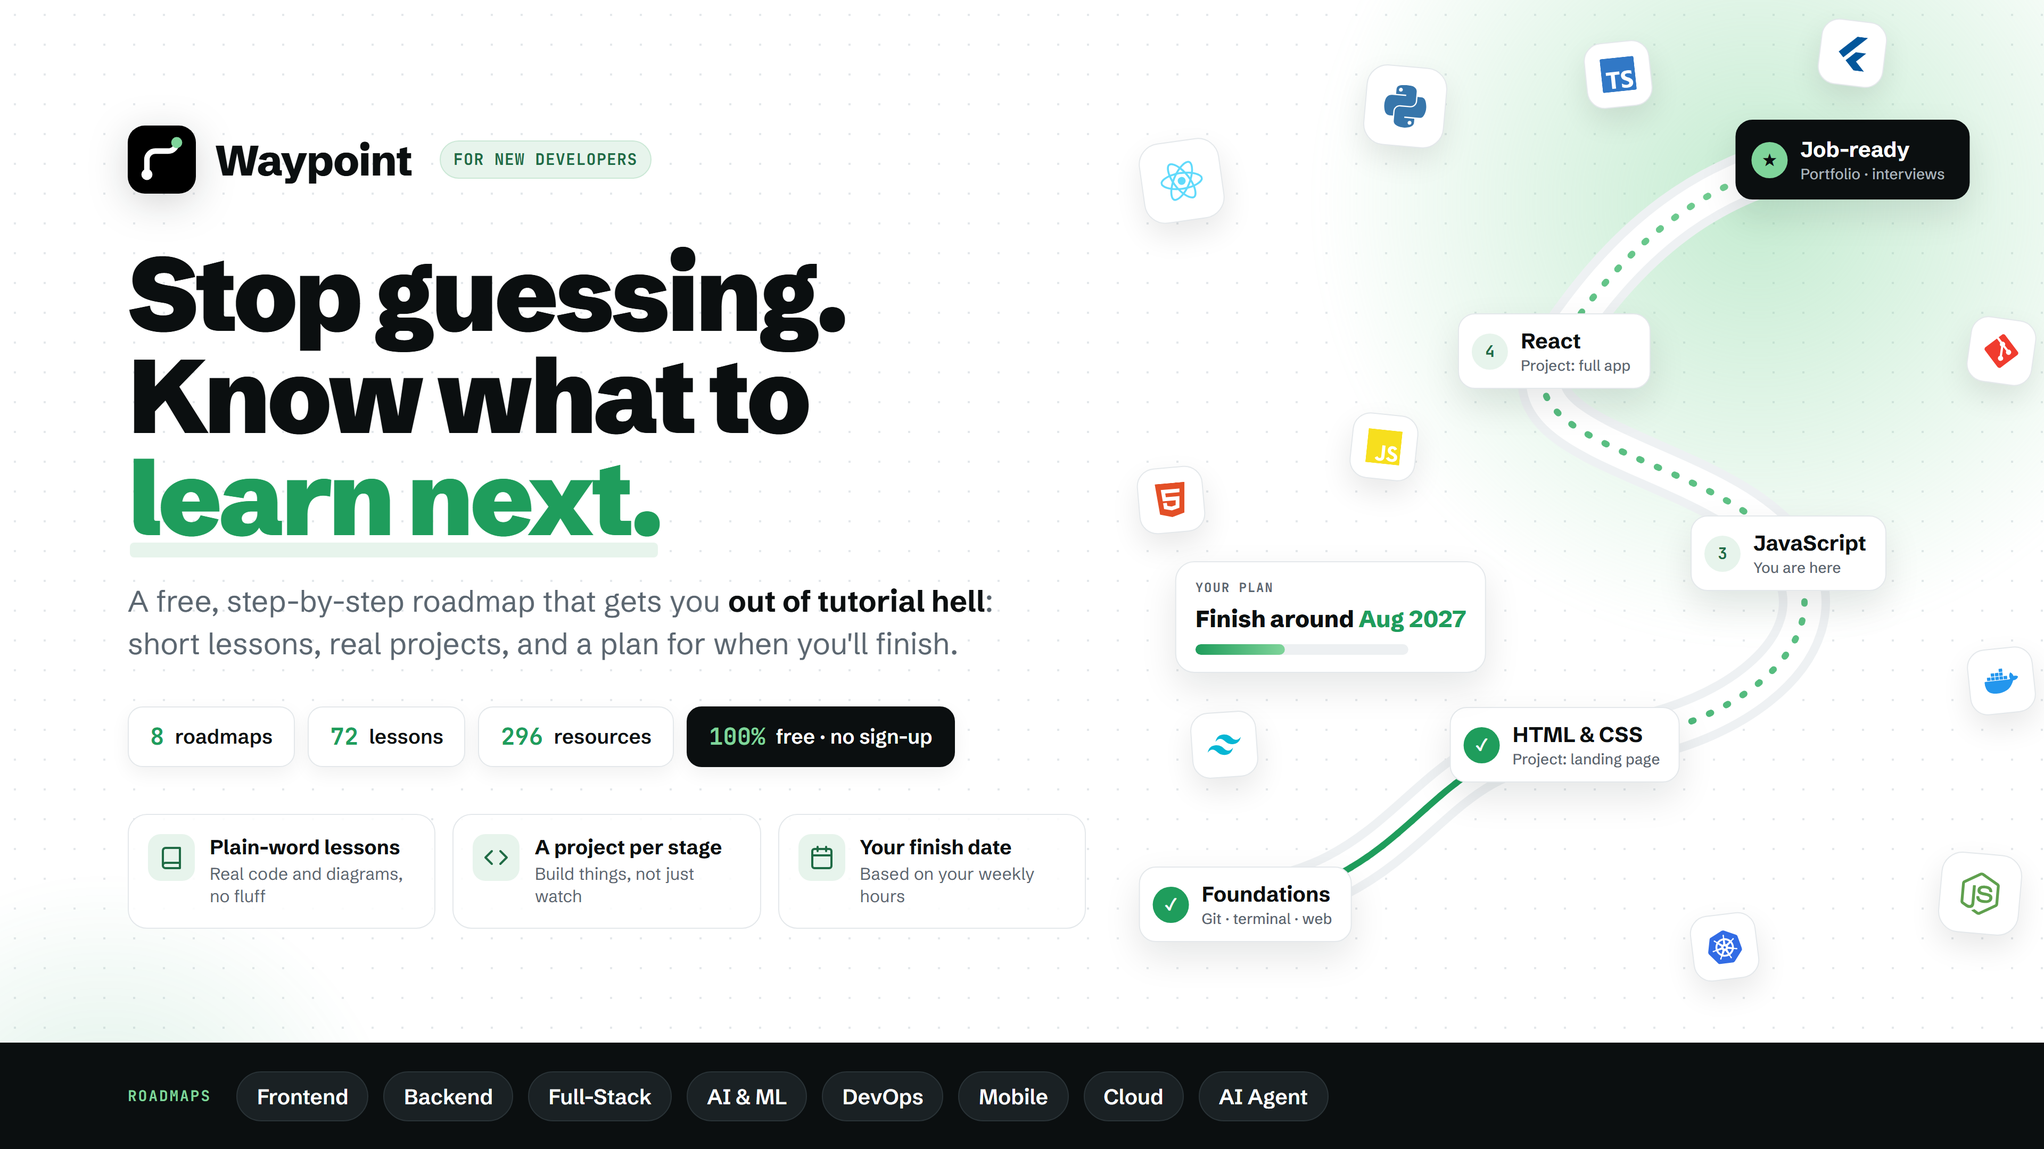
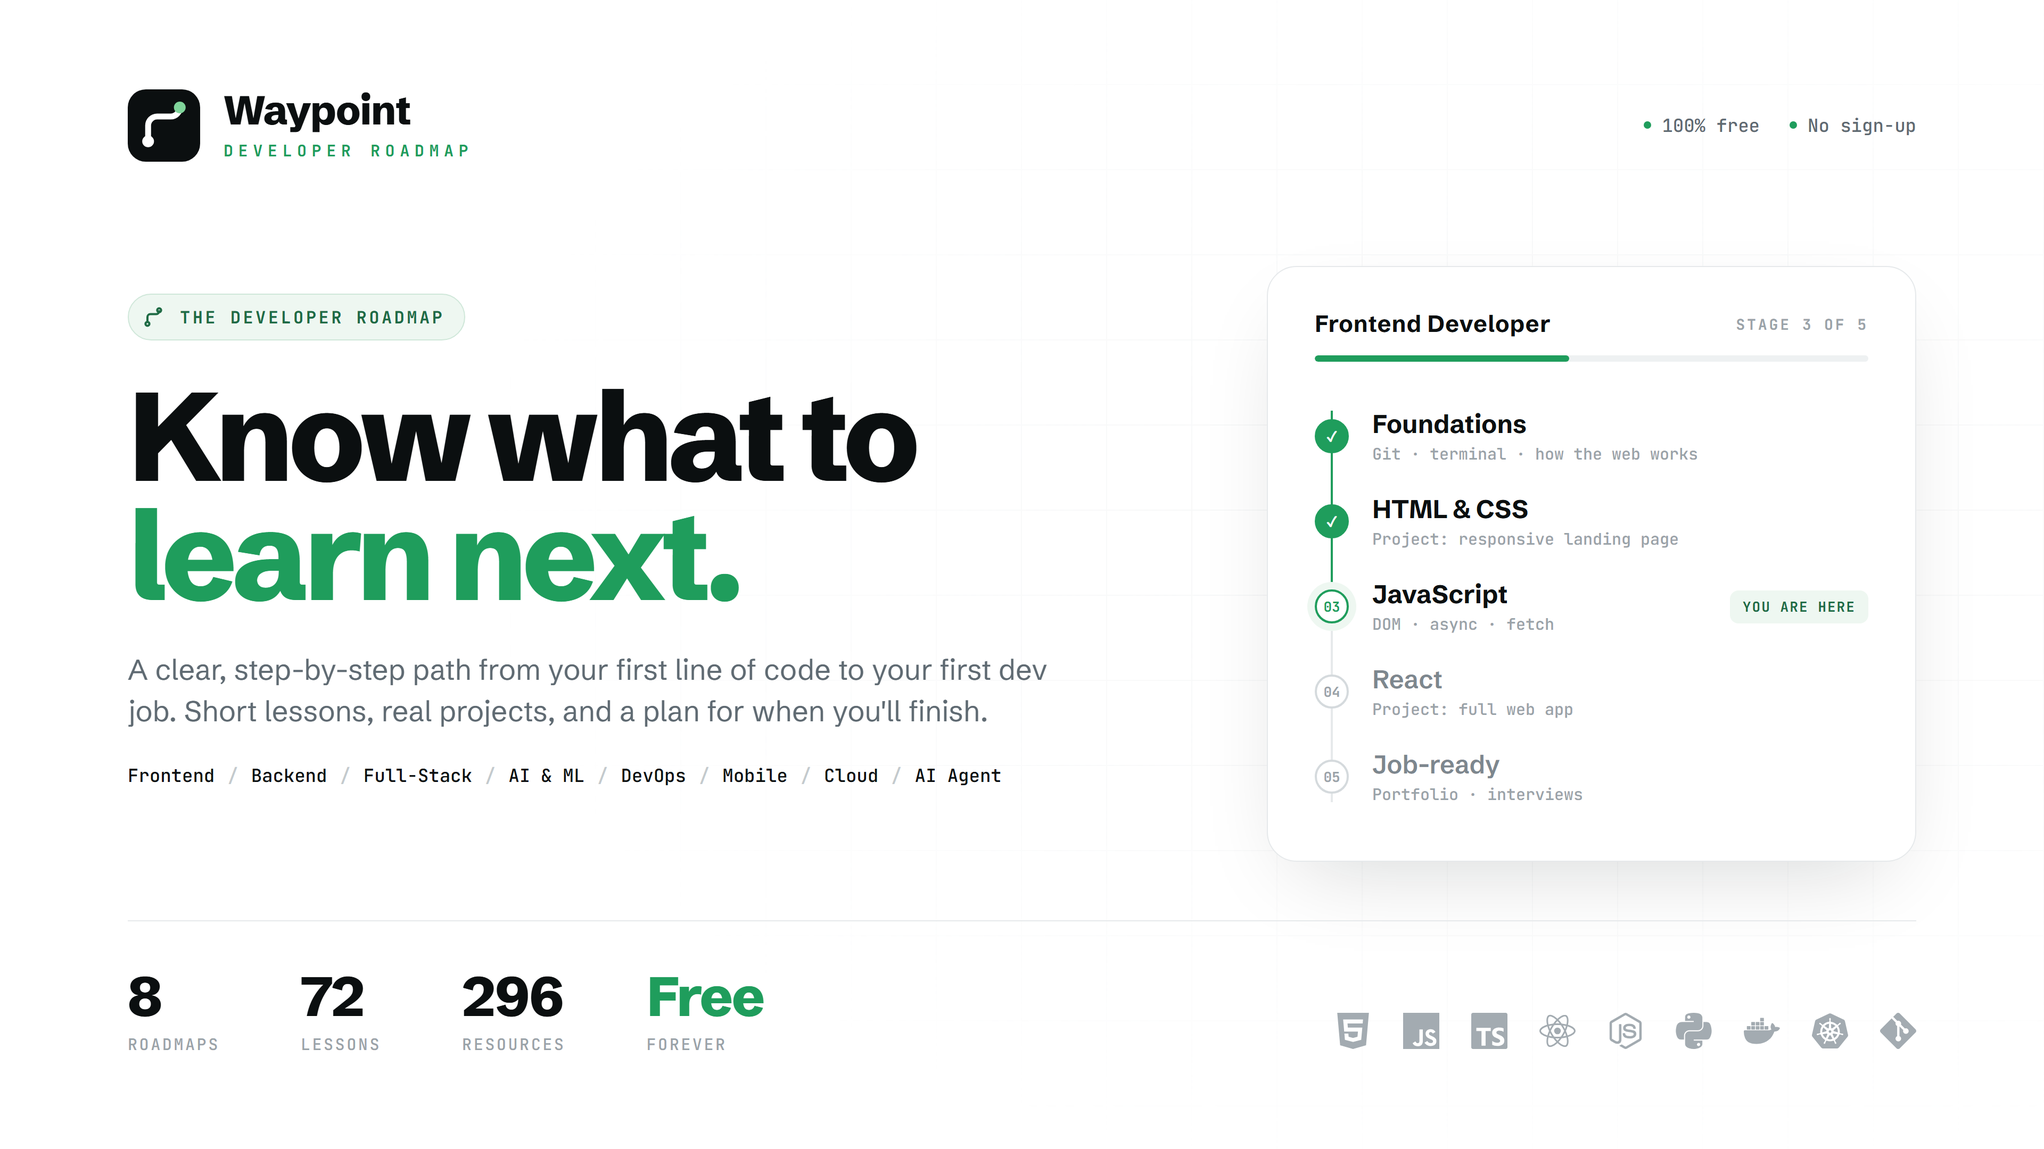
Redesign promo poster: minimal layout, Waypoint Developer Roadmap lockup

diff --git a/marketing/promo-poster.html b/marketing/promo-poster.html
@@ -6,140 +6,120 @@
 <link rel="preconnect" href="https://fonts.googleapis.com">
 <link href="https://fonts.googleapis.com/css2?family=Schibsted+Grotesk:wght@400;500;600;700;800;900&family=JetBrains+Mono:wght@500;700&display=swap" rel="stylesheet">
 <style>
-  :root { --ink:#0b0f10; --muted:#5b6670; --green:#1f9d5c; --deep:#1f6b45; --mint:#7fd49a; --bg-green:#e7f4ec; --line:#e4e8eb; }
+  :root { --ink:#0b0f10; --muted:#5f6a72; --soft:#9aa3a9; --line:#e6e9eb; --green:#1f9d5c; --deep:#1f6b45; --mint:#7fd49a; --tint:#eef7f1; }
   * { box-sizing:border-box; margin:0; padding:0; }
-  body { background:#f3f5f6; font-family:'Schibsted Grotesk', system-ui, sans-serif; color:var(--ink); padding:40px; }
+  body { background:#eceff1; font-family:'Schibsted Grotesk', system-ui, sans-serif; color:var(--ink); padding:40px; }
+  .mono { font-family:'JetBrains Mono', monospace; }
 
   .frame { position:relative; width:1920px; height:1080px; overflow:hidden; background:#fff; }
-  .frame::before { content:""; position:absolute; inset:0;
-    background-image:radial-gradient(#d9dee2 1.2px, transparent 1.2px); background-size:28px 28px; opacity:.7; }
-  .glow { position:absolute; border-radius:50%; filter:blur(10px); }
-  .glow.a { width:900px; height:900px; right:-180px; top:-260px; background:radial-gradient(circle, rgba(127,212,154,.45), rgba(127,212,154,0) 65%); }
-  .glow.b { width:600px; height:600px; left:-200px; bottom:-320px; background:radial-gradient(circle, rgba(31,157,92,.16), rgba(31,157,92,0) 65%); }
+  .frame::before { content:""; position:absolute; inset:0; pointer-events:none;
+    background-image:linear-gradient(var(--line) 1px, transparent 1px), linear-gradient(90deg, var(--line) 1px, transparent 1px);
+    background-size:80px 80px; background-position:-1px -1px; opacity:.45;
+    -webkit-mask-image:radial-gradient(ellipse 70% 80% at 75% 45%, #000 0%, transparent 75%); mask-image:radial-gradient(ellipse 70% 80% at 75% 45%, #000 0%, transparent 75%); }
 
-  /* ---------- left copy ---------- */
-  .copy { position:absolute; left:120px; top:118px; width:900px; z-index:3; }
-  .brand { display:flex; align-items:center; gap:18px; margin-bottom:46px; }
-  .brand svg { width:64px; height:64px; filter:drop-shadow(0 8px 18px rgba(11,15,16,.18)); }
-  .brand b { font-size:40px; font-weight:800; letter-spacing:-.02em; }
-  .brand .tag { margin-left:8px; font:700 15px 'JetBrains Mono', monospace; color:var(--deep);
-    background:var(--bg-green); border:1px solid #cbe8d6; padding:7px 12px; border-radius:999px; letter-spacing:.04em; }
-  h1 { font-size:98px; line-height:.98; font-weight:900; letter-spacing:-.035em; }
-  h1 .hl { color:var(--green); position:relative; white-space:nowrap; }
-  h1 .hl::after { content:""; position:absolute; left:2px; right:2px; bottom:4px; height:14px; background:var(--bg-green); z-index:-1; border-radius:4px; }
-  .sub { margin-top:30px; font-size:28px; line-height:1.42; color:var(--muted); max-width:820px; }
-  .sub strong { color:var(--ink); font-weight:700; }
-  .chips { display:flex; gap:12px; margin-top:38px; }
-  .chip { display:flex; align-items:center; gap:10px; padding:13px 20px; border-radius:14px; background:#fff;
-    border:1px solid var(--line); box-shadow:0 6px 18px rgba(11,15,16,.06); font-size:19px; font-weight:600; white-space:nowrap; }
-  .chip b { font:700 22px 'JetBrains Mono', monospace; color:var(--green); }
-  .chip.dark { background:var(--ink); color:#fff; border-color:var(--ink); }
-  .chip.dark b { color:var(--mint); }
+  /* header */
+  header { position:absolute; left:120px; right:120px; top:84px; display:flex; align-items:center; }
+  .lockup { display:flex; align-items:center; gap:22px; }
+  .lockup svg { width:68px; height:68px; }
+  .lockup .words { display:flex; flex-direction:column; line-height:1; }
+  .lockup .name { font-size:38px; font-weight:800; letter-spacing:-.02em; }
+  .lockup .dr { margin-top:9px; font:700 15px 'JetBrains Mono', monospace; letter-spacing:.32em; color:var(--green); text-transform:uppercase; }
+  header .right { margin-left:auto; display:flex; gap:28px; font:500 17px 'JetBrains Mono', monospace; color:var(--muted); }
+  header .right span::before { content:""; display:inline-block; width:7px; height:7px; border-radius:50%; background:var(--green); margin-right:10px; vertical-align:middle; position:relative; top:-2px; }
 
-  /* ---------- right art ---------- */
-  .art { position:absolute; left:1000px; top:0; width:920px; height:980px; z-index:2; }
-  .art svg.road { position:absolute; inset:0; }
-  .node { position:absolute; transform:translate(-50%,-50%); display:flex; align-items:center; gap:12px;
-    background:#fff; border:1px solid var(--line); border-radius:16px; padding:12px 18px 12px 12px;
-    box-shadow:0 14px 34px rgba(11,15,16,.10); font-weight:700; font-size:20px; white-space:nowrap; }
-  .node .num { width:34px; height:34px; border-radius:50%; display:grid; place-items:center;
-    font:700 15px 'JetBrains Mono', monospace; background:var(--bg-green); color:var(--deep); }
-  .node.done .num { background:var(--green); color:#fff; }
-  .node small { display:block; font-size:14px; font-weight:500; color:var(--muted); margin-top:2px; }
-  .node.goal { background:var(--ink); color:#fff; border-color:var(--ink); padding:14px 22px 14px 14px; }
-  .node.goal .num { background:var(--mint); color:var(--ink); }
-  .node.goal small { color:#a9b4bb; }
+  /* hero */
+  .hero { position:absolute; left:120px; top:276px; width:1000px; }
+  .eyebrow { display:inline-flex; align-items:center; gap:14px; padding:10px 18px 10px 12px; border:1px solid #cfe7d9; background:var(--tint);
+    border-radius:999px; font:700 16px 'JetBrains Mono', monospace; letter-spacing:.14em; color:var(--deep); }
+  .eyebrow svg { width:22px; height:22px; }
+  h1 { margin-top:34px; font-size:118px; line-height:.95; font-weight:800; letter-spacing:-.045em; }
+  h1 em { font-style:normal; color:var(--green); }
+  .sub { margin-top:32px; font-size:27px; line-height:1.45; color:var(--muted); max-width:900px; }
+  .roles { margin-top:30px; display:flex; flex-wrap:wrap; gap:10px 0; font:500 17px 'JetBrains Mono', monospace; color:var(--ink); max-width:1000px; }
+  .roles span:not(:last-child)::after { content:"/"; color:#c4cacd; margin:0 12px; }
 
-  .logo { position:absolute; width:76px; height:76px; border-radius:20px; background:#fff; border:1px solid var(--line);
-    box-shadow:0 12px 28px rgba(11,15,16,.09); display:grid; place-items:center; transform:translate(-50%,-50%) rotate(var(--r,0deg)); }
-  .logo img { width:40px; height:40px; }
-  .logo.sm { width:62px; height:62px; border-radius:17px; }
-  .logo.sm img { width:32px; height:32px; }
+  /* roadmap panel */
+  .panel { position:absolute; left:1190px; top:250px; width:610px; height:560px; background:#fff; border:1px solid var(--line); border-radius:28px;
+    box-shadow:0 30px 80px -30px rgba(11,15,16,.18); padding:40px 44px; }
+  .panel .ph { display:flex; align-items:center; justify-content:space-between; font:700 14px 'JetBrains Mono', monospace; letter-spacing:.14em; color:var(--soft); }
+  .panel .ph b { color:var(--ink); letter-spacing:.02em; font:700 22px 'Schibsted Grotesk', sans-serif; }
+  .prog { margin-top:16px; height:6px; border-radius:9px; background:#eef1f2; overflow:hidden; }
+  .prog i { display:block; width:46%; height:100%; background:var(--green); border-radius:9px; }
+  ol { list-style:none; margin-top:30px; position:relative; }
+  ol::before { content:""; position:absolute; left:15px; top:16px; bottom:16px; width:2px; background:var(--line); }
+  ol::after { content:""; position:absolute; left:15px; top:16px; height:170px; width:2px; background:var(--green); }
+  li { position:relative; display:flex; align-items:center; gap:22px; height:80px; }
+  .dot { position:relative; z-index:1; flex:none; width:32px; height:32px; border-radius:50%; background:#fff; border:2px solid #d5dadd;
+    display:grid; place-items:center; font:700 13px 'JetBrains Mono', monospace; color:var(--soft); }
+  li.done .dot { background:var(--green); border-color:var(--green); color:#fff; }
+  li.now .dot { border-color:var(--green); color:var(--green); box-shadow:0 0 0 7px var(--tint); }
+  li .t { font-size:24px; font-weight:700; }
+  li .c { font:500 15px 'JetBrains Mono', monospace; color:var(--soft); margin-top:4px; }
+  li:not(.done):not(.now) .t { color:#7d878e; font-weight:600; }
+  li .tag { margin-left:auto; font:700 13px 'JetBrains Mono', monospace; letter-spacing:.08em; color:var(--deep); background:var(--tint); padding:7px 12px; border-radius:8px; }
 
-  .badge { position:absolute; transform:translate(-50%,-50%); background:#fff; border:1px solid var(--line); border-radius:18px;
-    box-shadow:0 14px 34px rgba(11,15,16,.10); padding:16px 18px; }
-  .badge .lbl { font:700 12px 'JetBrains Mono', monospace; letter-spacing:.08em; color:var(--muted); text-transform:uppercase; }
-  .bar { margin-top:10px; width:200px; height:10px; border-radius:99px; background:#edf0f2; overflow:hidden; }
-  .bar i { display:block; height:100%; width:42%; background:linear-gradient(90deg, var(--green), var(--mint)); border-radius:99px; }
-  .badge .big { font-size:22px; font-weight:800; margin-top:8px; }
-  .badge .big em { font-style:normal; color:var(--green); }
-
-  /* ---------- bottom strip ---------- */
-  .roles { position:absolute; left:0; right:0; bottom:0; height:100px; z-index:3; display:flex; align-items:center; gap:14px;
-    padding:0 120px; background:var(--ink); color:#fff; }
-  .roles .k { font:700 14px 'JetBrains Mono', monospace; color:var(--mint); letter-spacing:.1em; margin-right:10px; }
-  .roles span.r { font-size:18px; font-weight:600; padding:8px 16px; border-radius:999px; background:#1a2124; border:1px solid #2a3337; }
-  .roles .url { margin-left:auto; font:700 17px 'JetBrains Mono', monospace; color:#cfe9d9; }
-
-  .feats { display:flex; gap:16px; margin-top:44px; }
-  .feat { flex:1; display:flex; gap:14px; align-items:flex-start; padding:18px; border-radius:18px; background:rgba(255,255,255,.85); border:1px solid var(--line); }
-  .feat .ic { flex:none; width:44px; height:44px; border-radius:12px; background:var(--bg-green); color:var(--deep); display:grid; place-items:center; }
-  .feat .ic svg { width:24px; height:24px; }
-  .feat b { display:block; font-size:19px; }
-  .feat span { display:block; font-size:16px; color:var(--muted); margin-top:3px; line-height:1.35; }
-  .roles span.r { font-size:20px; padding:10px 18px; }
+  /* footer */
+  footer { position:absolute; left:120px; right:120px; bottom:88px; padding-top:44px; border-top:1px solid var(--line); display:flex; align-items:flex-end; }
+  .stats { display:flex; gap:76px; }
+  .stat b { display:block; font-size:52px; font-weight:800; letter-spacing:-.03em; line-height:1; }
+  .stat span { display:block; margin-top:10px; font:500 15px 'JetBrains Mono', monospace; letter-spacing:.12em; color:var(--soft); text-transform:uppercase; }
+  .stat b em { font-style:normal; color:var(--green); }
+  .tech { margin-left:auto; display:flex; align-items:center; gap:30px; padding-bottom:6px; }
+  .tech img { width:34px; height:34px; opacity:.9; }
 </style>
 </head>
 <body>
 <section class="frame" data-name="promo-poster">
-  <div class="glow a"></div><div class="glow b"></div>
-  <div class="copy">
-    <div class="brand">
-      <svg viewBox="0 0 32 32"><rect width="32" height="32" rx="8" fill="#000"/><path d="M9 23V16a4 4 0 0 1 4-4h6a4 4 0 0 0 4-4" fill="none" stroke="#fff" stroke-width="2.6" stroke-linecap="round"/><circle cx="9" cy="23" r="2.6" fill="#fff"/><circle cx="23" cy="8" r="2.6" fill="#7fd49a"/></svg>
-      <b>Waypoint</b>
-      <span class="tag">FOR NEW DEVELOPERS</span>
+
+  <header>
+    <div class="lockup">
+      <svg viewBox="0 0 32 32"><rect width="32" height="32" rx="8" fill="#0b0f10"/><path d="M9 23V16a4 4 0 0 1 4-4h6a4 4 0 0 0 4-4" fill="none" stroke="#fff" stroke-width="2.6" stroke-linecap="round"/><circle cx="9" cy="23" r="2.6" fill="#fff"/><circle cx="23" cy="8" r="2.6" fill="#7fd49a"/></svg>
+      <div class="words"><span class="name">Waypoint</span><span class="dr">Developer Roadmap</span></div>
     </div>
-    <h1>Stop guessing.<br>Know what to <span class="hl">learn next.</span></h1>
-    <p class="sub">A free, step-by-step roadmap that gets you <strong>out of tutorial hell</strong>: short lessons, real projects, and a plan for when you'll finish.</p>
-    <div class="chips">
-      <div class="chip"><b>8</b> roadmaps</div>
-      <div class="chip"><b>72</b> lessons</div>
-      <div class="chip"><b>296</b> resources</div>
-      <div class="chip dark"><b>100%</b> free · no sign-up</div>
+    <div class="right"><span>100% free</span><span>No sign-up</span></div>
+  </header>
+
+  <div class="hero">
+    <div class="eyebrow">
+      <svg viewBox="0 0 24 24" fill="none" stroke="currentColor" stroke-width="2.2" stroke-linecap="round" stroke-linejoin="round"><circle cx="6" cy="19" r="2"/><circle cx="18" cy="5" r="2"/><path d="M6 17V12a3 3 0 0 1 3-3h6a3 3 0 0 0 3-3"/></svg>
+      THE DEVELOPER ROADMAP
     </div>
-    <div class="feats">
-      <div class="feat"><div class="ic"><svg viewBox="0 0 24 24" fill="none" stroke="currentColor" stroke-width="2" stroke-linecap="round" stroke-linejoin="round"><path d="M4 19.5A2.5 2.5 0 0 1 6.5 17H20V3H6.5A2.5 2.5 0 0 0 4 5.5z"/><path d="M4 19.5A2.5 2.5 0 0 0 6.5 22H20v-5"/></svg></div><div><b>Plain-word lessons</b><span>Real code and diagrams, no fluff</span></div></div>
-      <div class="feat"><div class="ic"><svg viewBox="0 0 24 24" fill="none" stroke="currentColor" stroke-width="2" stroke-linecap="round" stroke-linejoin="round"><path d="m16 18 6-6-6-6"/><path d="m8 6-6 6 6 6"/></svg></div><div><b>A project per stage</b><span>Build things, not just watch</span></div></div>
-      <div class="feat"><div class="ic"><svg viewBox="0 0 24 24" fill="none" stroke="currentColor" stroke-width="2" stroke-linecap="round" stroke-linejoin="round"><rect x="3" y="4" width="18" height="18" rx="2"/><path d="M16 2v4M8 2v4M3 10h18"/></svg></div><div><b>Your finish date</b><span>Based on your weekly hours</span></div></div>
-    </div>
+    <h1>Know what to<br><em>learn next.</em></h1>
+    <p class="sub">A clear, step-by-step path from your first line of code to your first dev job. Short lessons, real projects, and a plan for when you'll finish.</p>
+    <div class="roles"><span>Frontend</span><span>Backend</span><span>Full-Stack</span><span>AI &amp; ML</span><span>DevOps</span><span>Mobile</span><span>Cloud</span><span>AI Agent</span></div>
   </div>
 
-  <div class="art">
-    <svg class="road" viewBox="0 0 920 980">
-      <defs><linearGradient id="g" x1="0" y1="1" x2="1" y2="0"><stop offset="0" stop-color="#1f9d5c"/><stop offset="1" stop-color="#7fd49a"/></linearGradient></defs>
-      <path d="M130 850 C 330 850, 330 700, 470 700 S 740 610, 680 520 S 400 420, 460 330 S 600 150, 760 140" fill="none" stroke="#eef1f3" stroke-width="48" stroke-linecap="round"/>
-      <path d="M130 850 C 330 850, 330 700, 470 700 S 740 610, 680 520 S 400 420, 460 330 S 600 150, 760 140" fill="none" stroke="#fff" stroke-width="32" stroke-linecap="round"/>
-      <path d="M130 850 C 330 850, 330 700, 470 700 S 740 610, 680 520 S 400 420, 460 330 S 600 150, 760 140" fill="none" stroke="url(#g)" stroke-width="6" stroke-linecap="round" stroke-dasharray="2 16"/>
-      <path d="M130 850 C 330 850, 330 700, 470 700" fill="none" stroke="#1f9d5c" stroke-width="6" stroke-linecap="round"/>
-    </svg>
-    <div class="node done" style="left:170px; top:850px"><span class="num">✓</span><div>Foundations<small>Git · terminal · web</small></div></div>
-    <div class="node done" style="left:470px; top:700px"><span class="num">✓</span><div>HTML &amp; CSS<small>Project: landing page</small></div></div>
-    <div class="node" style="left:680px; top:520px"><span class="num">3</span><div>JavaScript<small>You are here</small></div></div>
-    <div class="node" style="left:460px; top:330px"><span class="num">4</span><div>React<small>Project: full app</small></div></div>
-    <div class="node goal" style="left:740px; top:150px"><span class="num">★</span><div>Job-ready<small>Portfolio · interviews</small></div></div>
-    <div class="logo" style="left:110px; top:170px; --r:-8deg"><img src="https://cdn.simpleicons.org/react"></div>
-    <div class="logo" style="left:320px; top:100px; --r:5deg"><img src="https://cdn.simpleicons.org/python"></div>
-    <div class="logo sm" style="left:520px; top:70px; --r:-6deg"><img src="https://cdn.simpleicons.org/typescript"></div>
-    <div class="logo sm" style="left:300px; top:420px; --r:6deg"><img src="https://cdn.simpleicons.org/javascript"></div>
-    <div class="logo sm" style="left:100px; top:470px; --r:-5deg"><img src="https://cdn.simpleicons.org/html5"></div>
-    <div class="logo sm" style="left:880px; top:330px; --r:8deg"><img src="https://cdn.simpleicons.org/git"></div>
-    <div class="logo sm" style="left:880px; top:640px; --r:-6deg"><img src="https://cdn.simpleicons.org/docker"></div>
-    <div class="logo" style="left:860px; top:840px; --r:5deg"><img src="https://cdn.simpleicons.org/nodedotjs"></div>
-    <div class="logo sm" style="left:620px; top:890px; --r:-7deg"><img src="https://cdn.simpleicons.org/kubernetes"></div>
-    <div class="logo sm" style="left:740px; top:50px; --r:7deg"><img src="https://cdn.simpleicons.org/flutter"></div>
-    <div class="logo sm" style="left:150px; top:700px; --r:-4deg"><img src="https://cdn.simpleicons.org/tailwindcss"></div>
-    <div class="badge" style="left:250px; top:580px">
-      <div class="lbl">Your plan</div>
-      <div class="big">Finish around <em>Aug 2027</em></div>
-      <div class="bar"><i></i></div>
-    </div>
+  <div class="panel">
+    <div class="ph"><b>Frontend Developer</b><span>STAGE 3 OF 5</span></div>
+    <div class="prog"><i></i></div>
+    <ol>
+      <li class="done"><span class="dot">✓</span><div><div class="t">Foundations</div><div class="c">Git · terminal · how the web works</div></div></li>
+      <li class="done"><span class="dot">✓</span><div><div class="t">HTML &amp; CSS</div><div class="c">Project: responsive landing page</div></div></li>
+      <li class="now"><span class="dot">03</span><div><div class="t">JavaScript</div><div class="c">DOM · async · fetch</div></div><span class="tag">YOU ARE HERE</span></li>
+      <li><span class="dot">04</span><div><div class="t">React</div><div class="c">Project: full web app</div></div></li>
+      <li><span class="dot">05</span><div><div class="t">Job-ready</div><div class="c">Portfolio · interviews</div></div></li>
+    </ol>
   </div>
 
-  <div class="roles">
-    <span class="k">ROADMAPS</span>
-    <span class="r">Frontend</span><span class="r">Backend</span><span class="r">Full-Stack</span><span class="r">AI &amp; ML</span>
-    <span class="r">DevOps</span><span class="r">Mobile</span><span class="r">Cloud</span><span class="r">AI Agent</span>
-  </div>
+  <footer>
+    <div class="stats">
+      <div class="stat"><b>8</b><span>Roadmaps</span></div>
+      <div class="stat"><b>72</b><span>Lessons</span></div>
+      <div class="stat"><b>296</b><span>Resources</span></div>
+      <div class="stat"><b><em>Free</em></b><span>Forever</span></div>
+    </div>
+    <div class="tech">
+      <img src="https://cdn.simpleicons.org/html5/9aa3a9">
+      <img src="https://cdn.simpleicons.org/javascript/9aa3a9">
+      <img src="https://cdn.simpleicons.org/typescript/9aa3a9">
+      <img src="https://cdn.simpleicons.org/react/9aa3a9">
+      <img src="https://cdn.simpleicons.org/nodedotjs/9aa3a9">
+      <img src="https://cdn.simpleicons.org/python/9aa3a9">
+      <img src="https://cdn.simpleicons.org/docker/9aa3a9">
+      <img src="https://cdn.simpleicons.org/kubernetes/9aa3a9">
+      <img src="https://cdn.simpleicons.org/git/9aa3a9">
+    </div>
+  </footer>
 </section>
 </body>
 </html>
